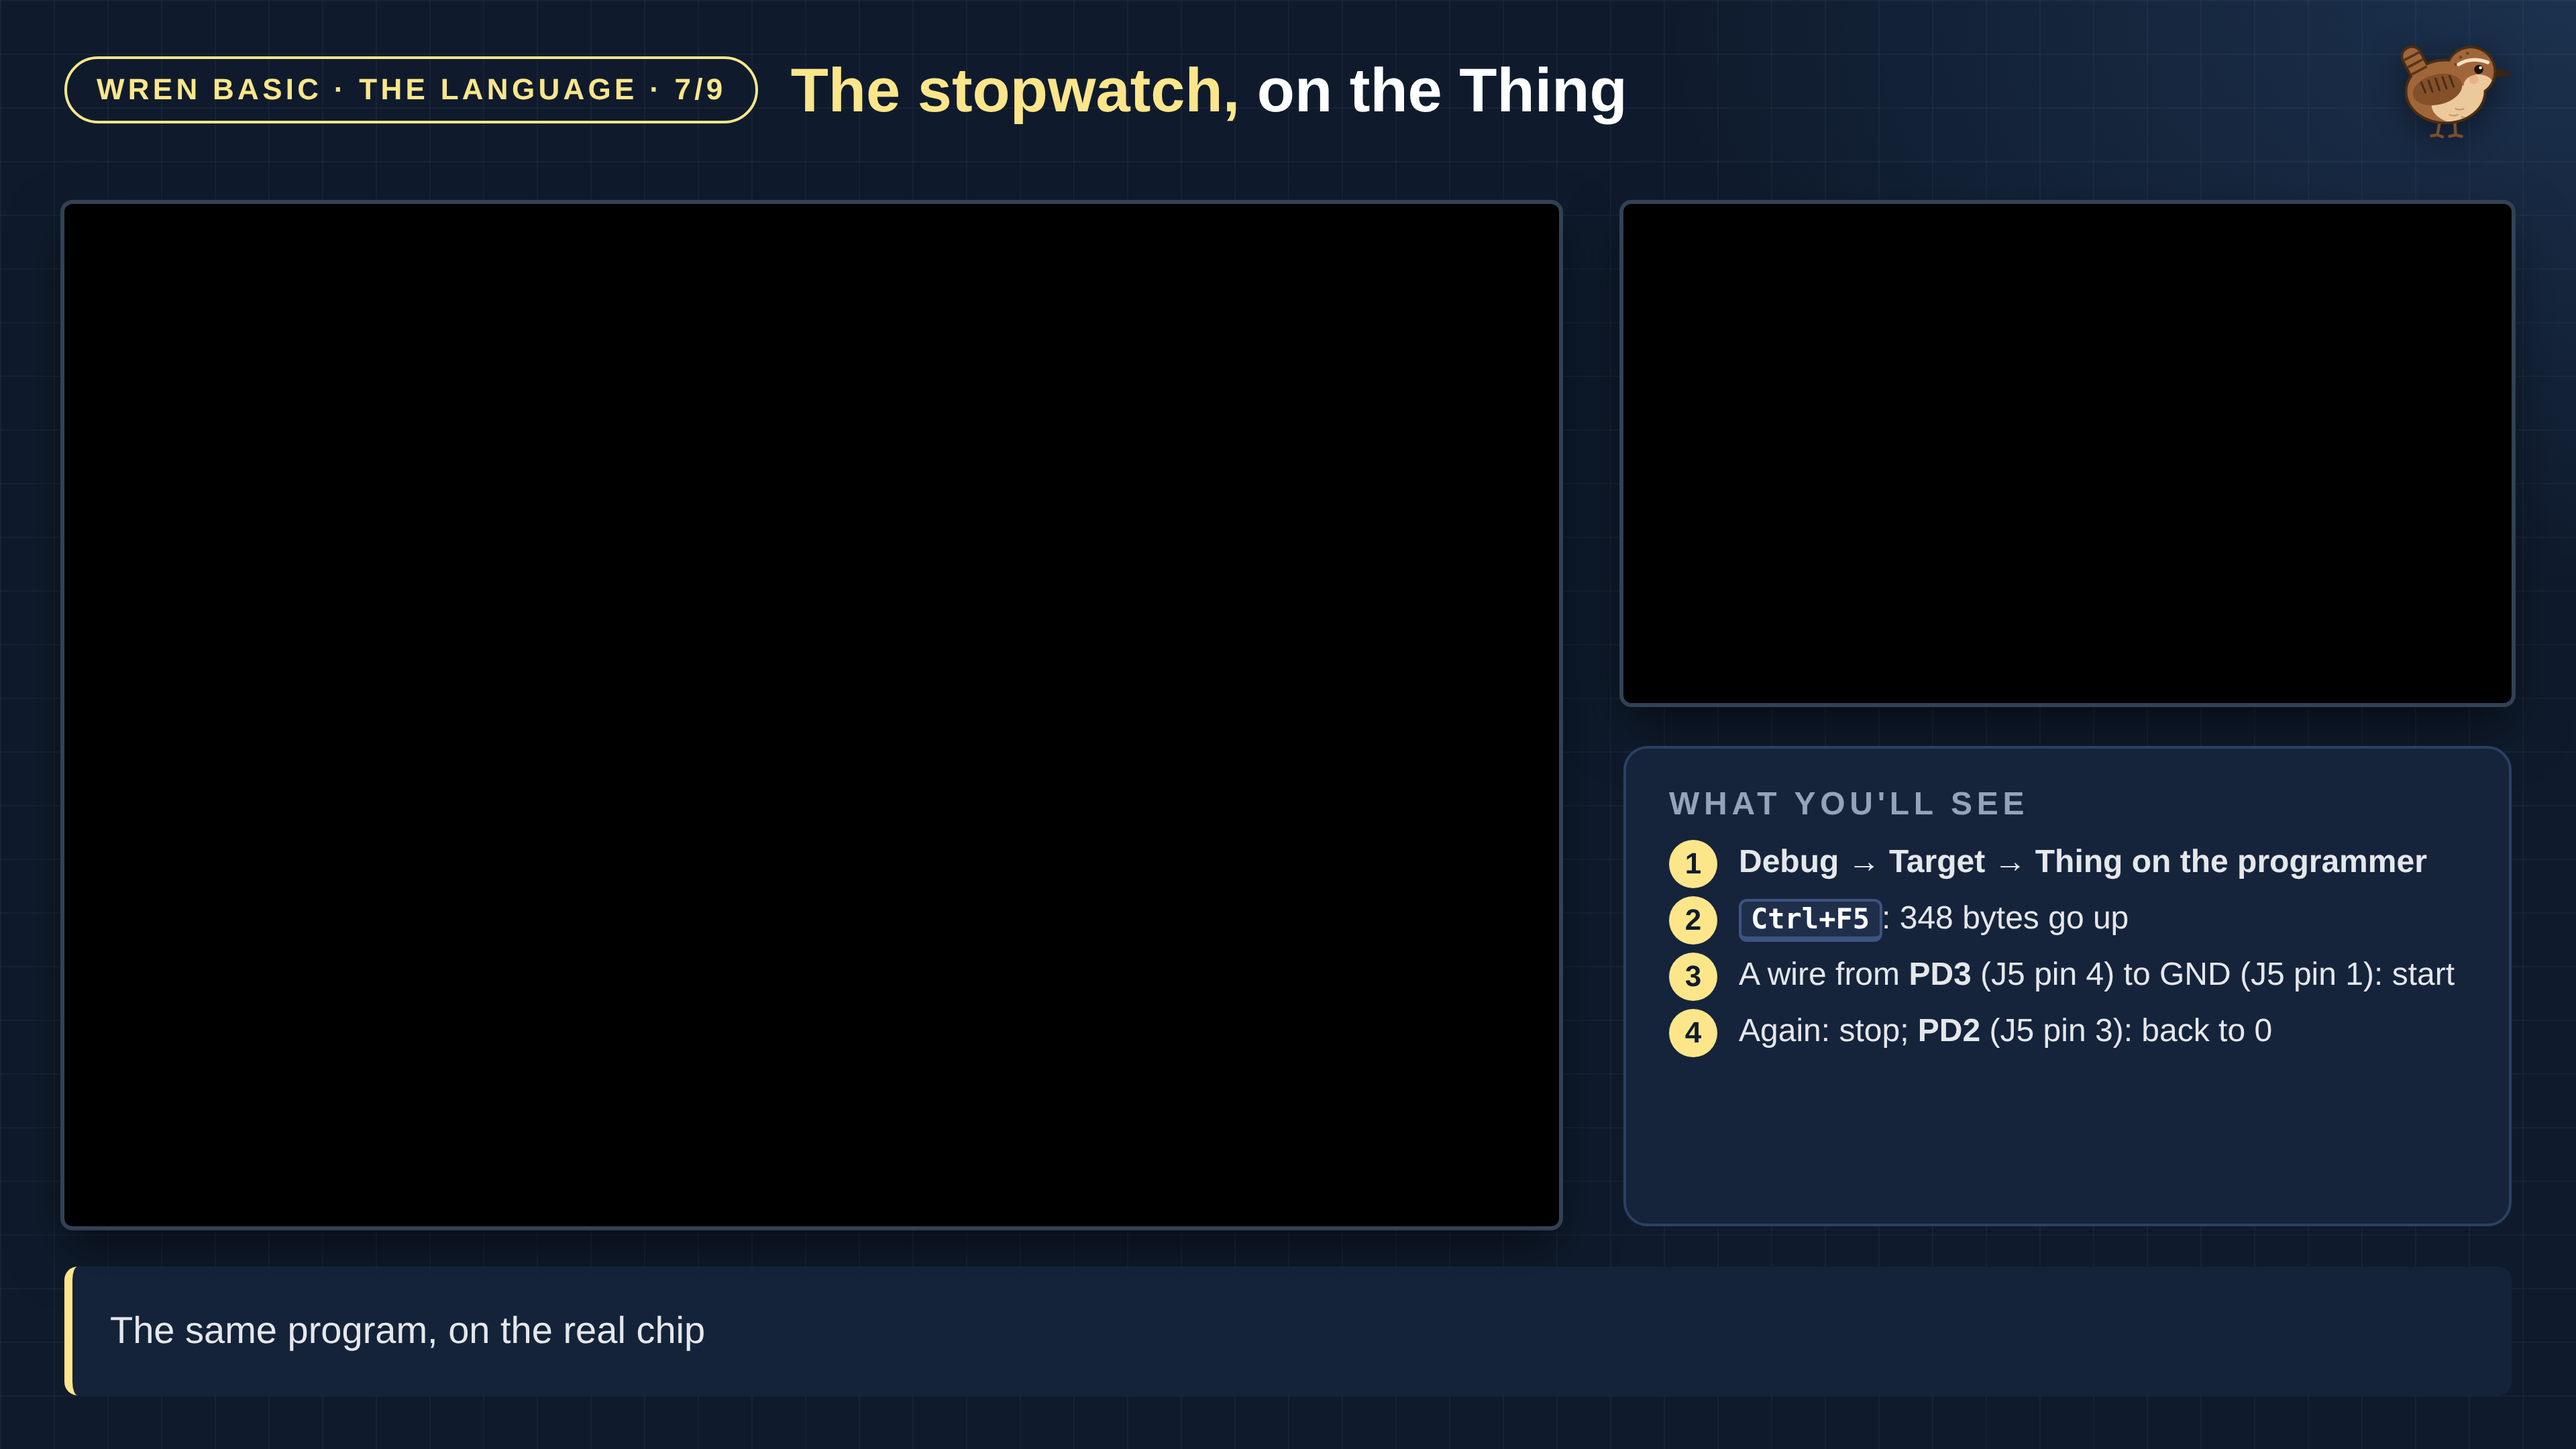
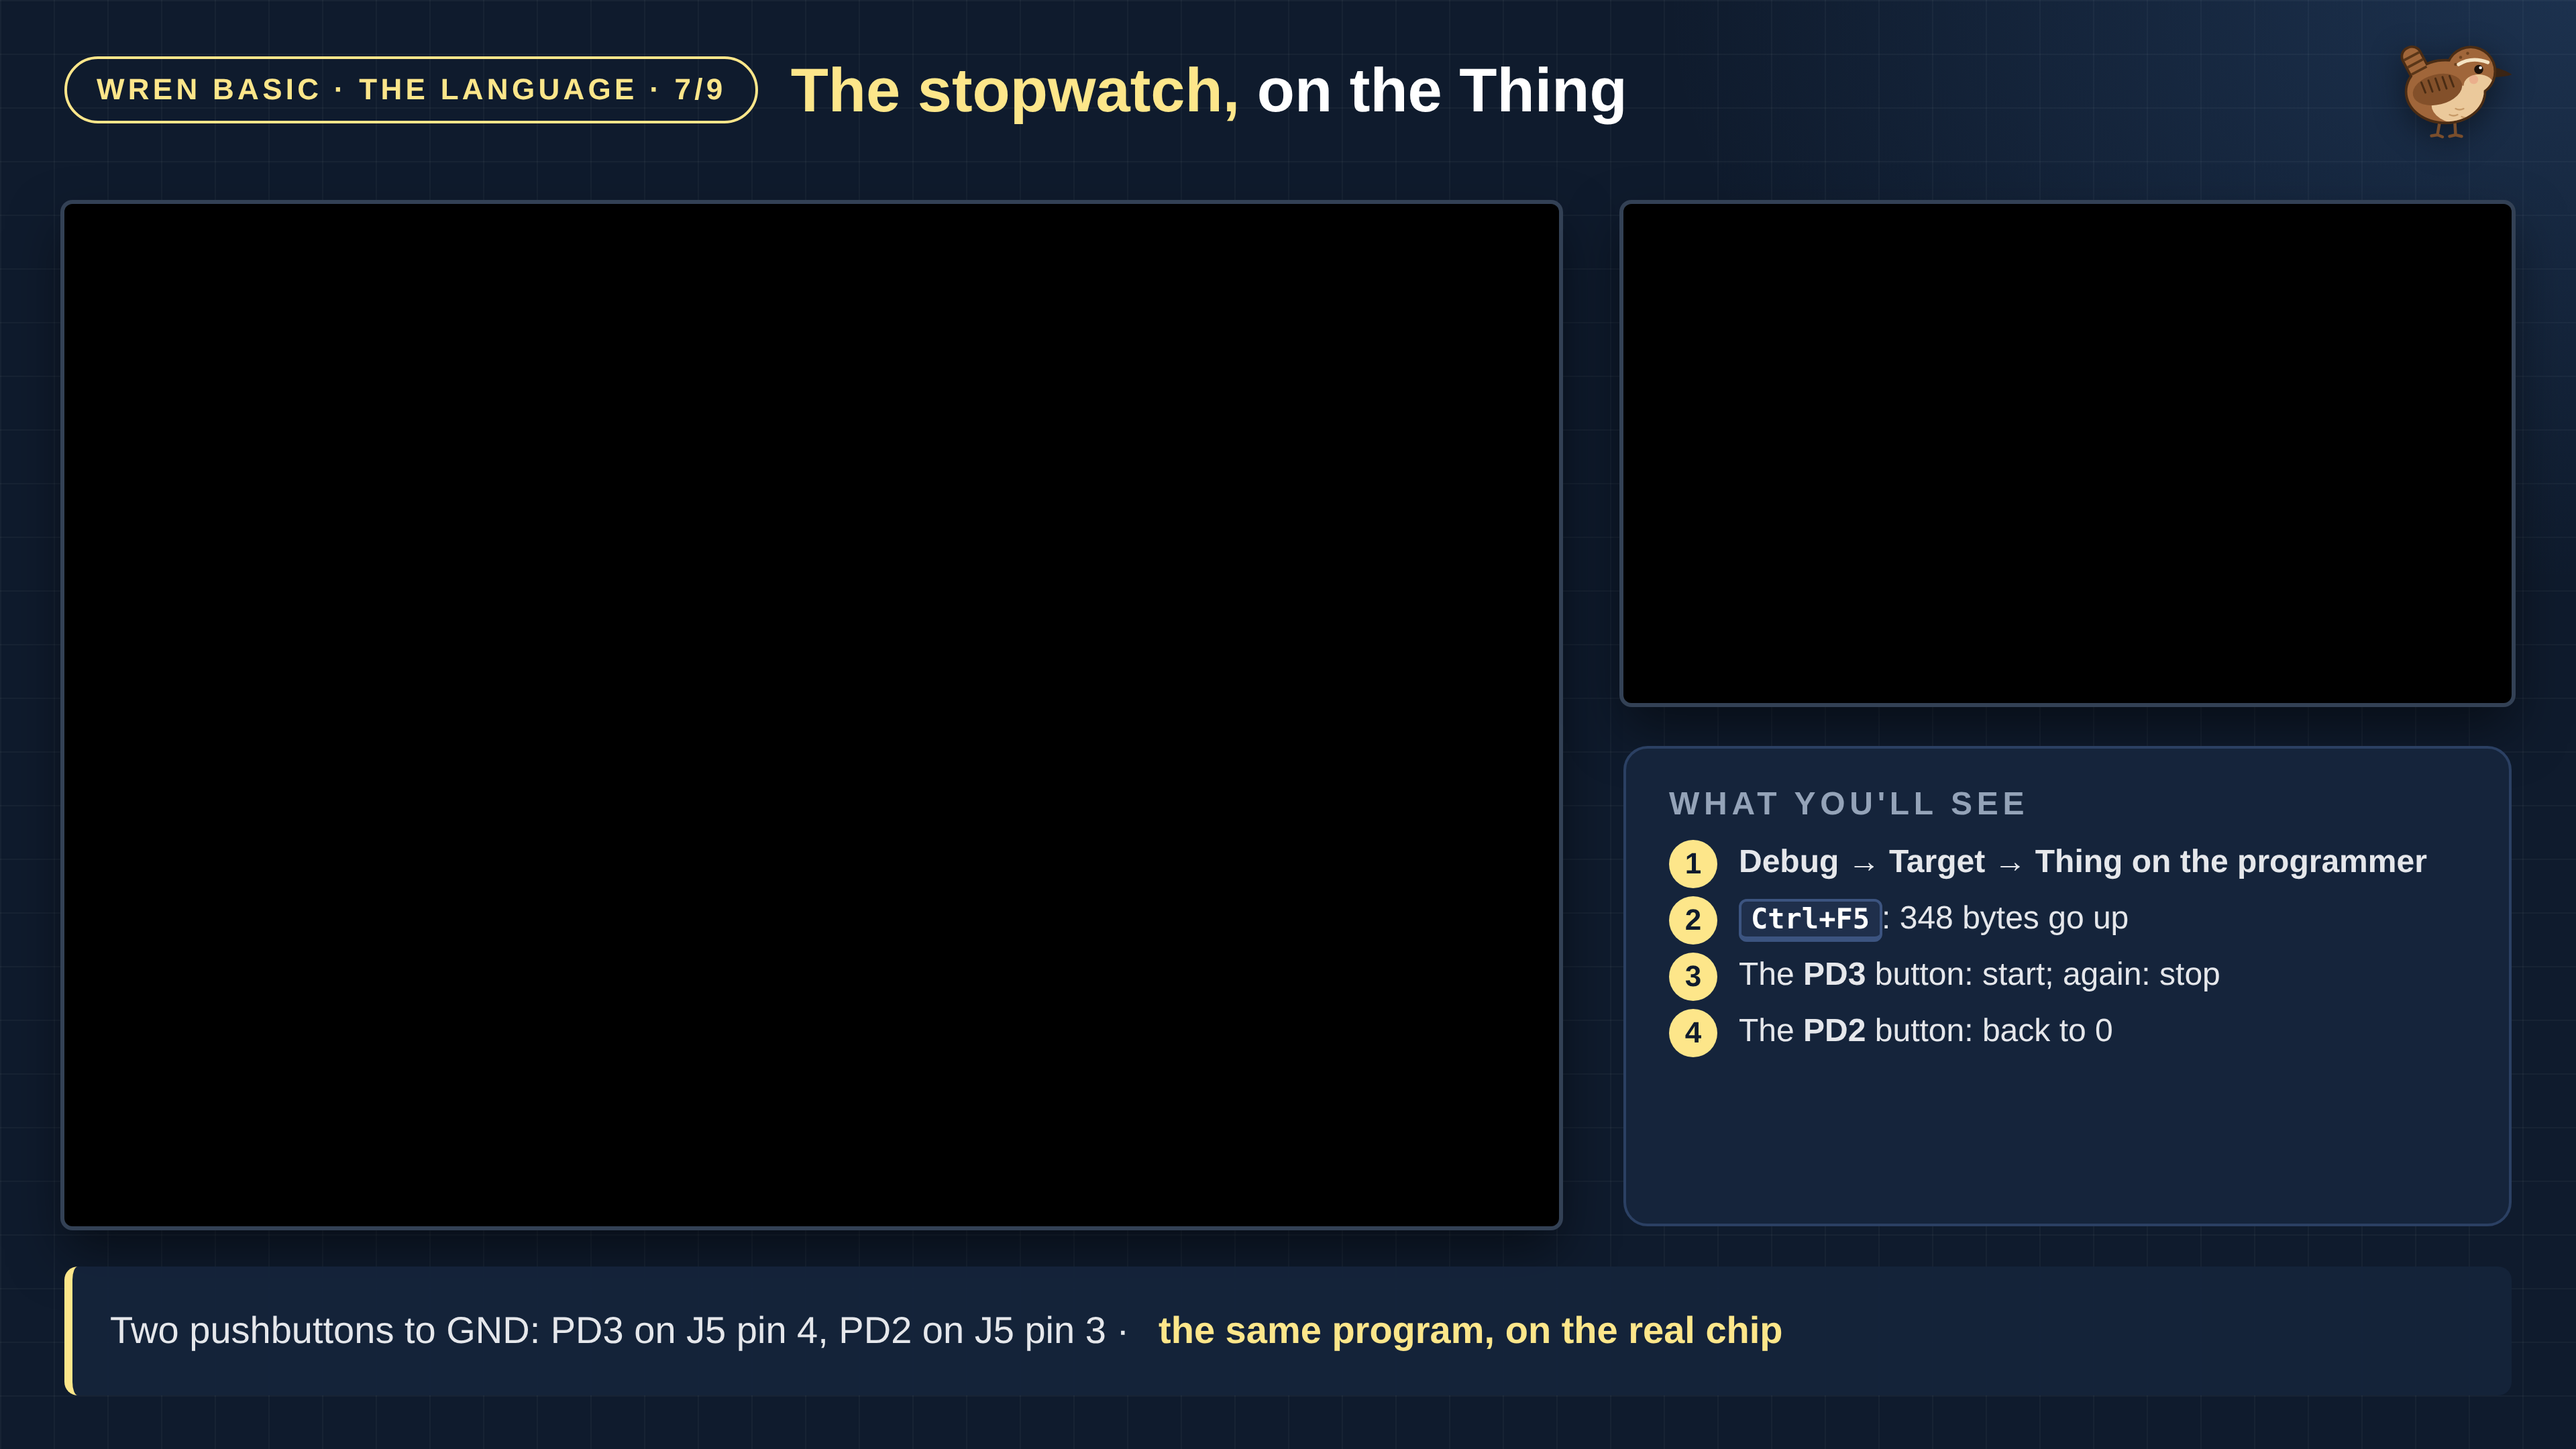
Videos: the language video's board scene uses two pushbuttons on PD3 and PD2
Claude-Session: https://claude.ai/code/session_01PM169opcHumrd8MpGp9RPP

Changed region(s): [[0.0312, 0.8995, 0.6875, 0.9306], [0.6875, 0.6514, 0.9375, 0.7134]]

diff --git a/docs/Videos/Infographics/Wren_03/Wren_03_07b_Thing.html b/docs/Videos/Infographics/Wren_03/Wren_03_07b_Thing.html
@@ -187,9 +187,9 @@
 <div class="frame console"></div>
 <div class="frame camera"></div>
 <div class="card see"><h2>WHAT YOU'LL SEE</h2><ol>
-<li><b>Debug → Target → Thing on the programmer</b></li><li><kbd>Ctrl+F5</kbd>: 348 bytes go up</li><li>A wire from <b>PD3</b> (J5 pin 4) to GND (J5 pin 1): start</li><li>Again: stop; <b>PD2</b> (J5 pin 3): back to 0</li>
+<li><b>Debug → Target → Thing on the programmer</b></li><li><kbd>Ctrl+F5</kbd>: 348 bytes go up</li><li>The <b>PD3</b> button: start; again: stop</li><li>The <b>PD2</b> button: back to 0</li>
 </ol></div>
-<div class="strip">The same program, on the real chip</div>
+<div class="strip">Two pushbuttons to GND: PD3 on J5 pin 4, PD2 on J5 pin 3 · <b>the same program, on the real chip</b></div>
 <!--NAV--><a class="nav prev" href="Wren_03_07_Time.html" aria-label="Previous slide"></a><a class="nav next" href="Wren_03_08_Limits.html" aria-label="Next slide"></a><!--/NAV-->
 </body>
 </html>

diff --git a/docs/Videos/Wren_03_Basic.md b/docs/Videos/Wren_03_Basic.md
@@ -92,9 +92,9 @@ Wren (MIT licence, C#, Windows): https://github.com/sillycowvalley/Wren
 
 *In Wren: Debug → Target → Thing on the programmer, then Ctrl+F5 to upload and run.*
 
-*On the board, a jumper wire is the button: touch J5 pin 4 (PD3) to J5 pin 1 (GND) and take it away to start; again to stop. J5 pin 3 (PD2) to GND sets it back to 0.*
+*Press the PD3 button to start, again to stop. Press the PD2 button to set it back to 0.*
 
-> On the real board, a wire to ground is the button. And it's the same three hundred and forty-eight bytes, doing exactly what it did on screen.
+> On the real board, two pushbuttons on a breadboard, one on each pin. And it's the same three hundred and forty-eight bytes, doing exactly what it did on screen.
 
 ## The limits
 
